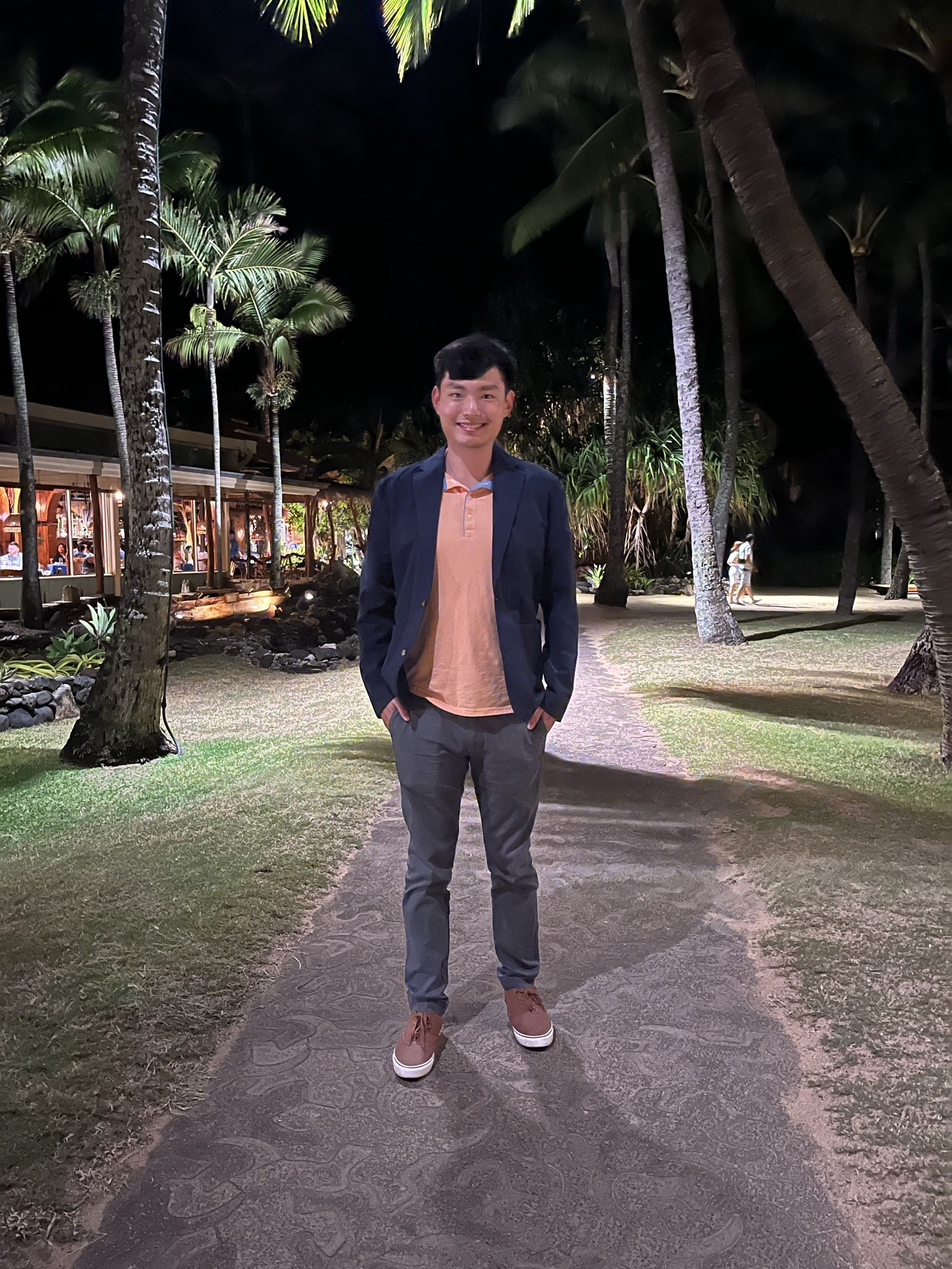
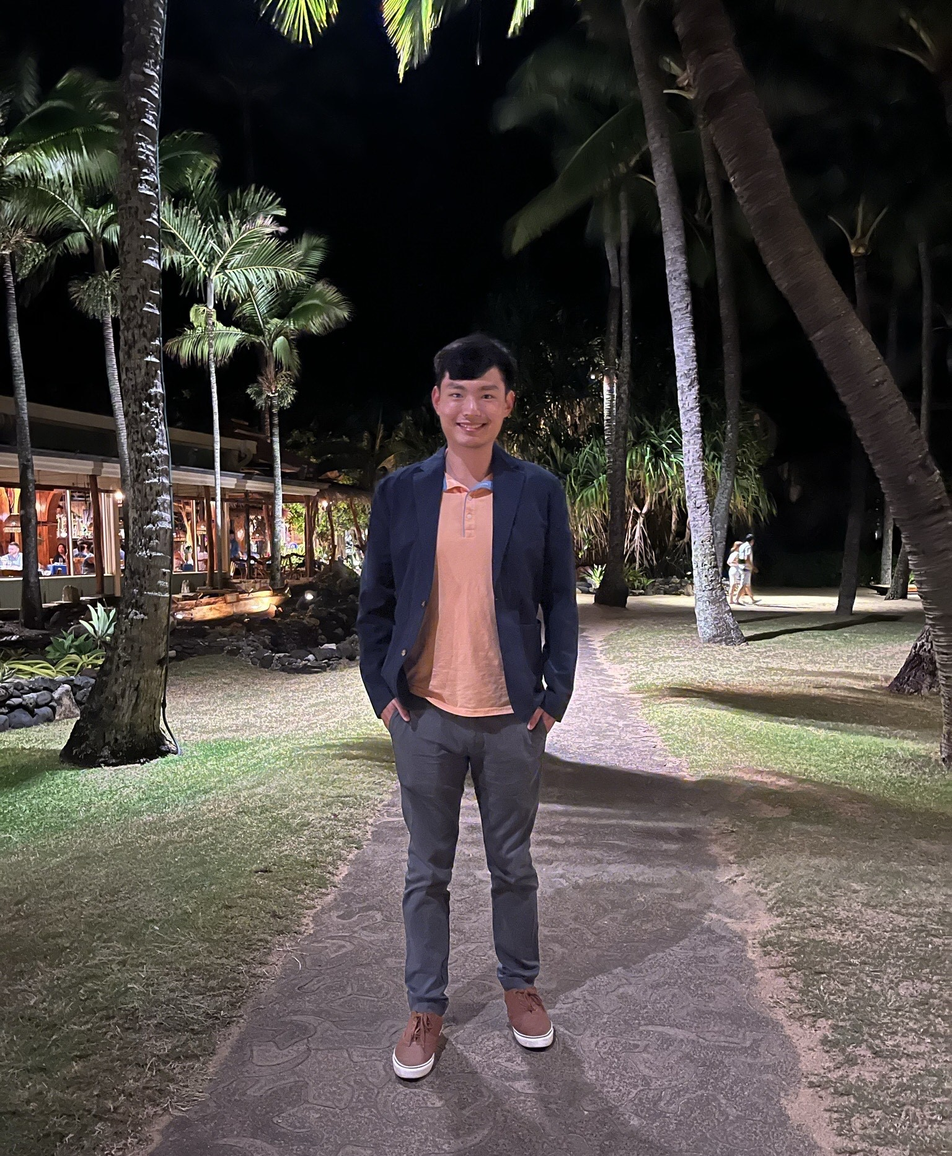
updated photos

diff --git a/components/About.jsx b/components/About.jsx
@@ -18,7 +18,7 @@ export default function About({dark}) {
                         Today, 6 years after printing my first "Hello World," my scope of work has expanded into creating cutting-edge web applications using modern frontend technologies like React, Angular, and much more.
                     </p>
                     <p>
-                        When I'm not staring at a computer screen, you can usually find me hiking in some remote trail in the Bay, sampling popup food shops, or baking a new recipe I found on Tasty.
+                        When I'm not staring at a computer screen, you can usually find me hiking some remote trail in the Bay, sampling popup food shops, or baking a new recipe I found on Tasty.
                     </p>
                 </div>
             </div>

diff --git a/components/Hero.jsx b/components/Hero.jsx
@@ -4,7 +4,7 @@ export default function Hero({dark}) {
     return (
         <div className={`page hero ${dark ? "dark" : ""}`} id="hero">
             <div className="hero-image-container">
-                <img className="hero-image" src="../images/portrait_LA.jpg" />
+                <img className="hero-image" src="../images/portrait_LA_night.jpg" />
                 <div className="hero-border"></div>
             </div>
             <div className="hero-text">

diff --git a/index.css b/index.css
@@ -318,14 +318,14 @@ button {
 .about-portrait {
     align-self: center;
     width: 15em;
-    margin-top: 1em;
+    margin-top: 3rem;
     /* border: 8px solid var(--Gray-50, #F9FAFB); */
 }
 
 .about-header {
-    margin: 3em 0 1.5em 0;
+    margin: 3rem 0 1.5em 0;
     font-size: 1.5rem;
-    }
+}
 
 .about-text-container {
     margin: 1em;
